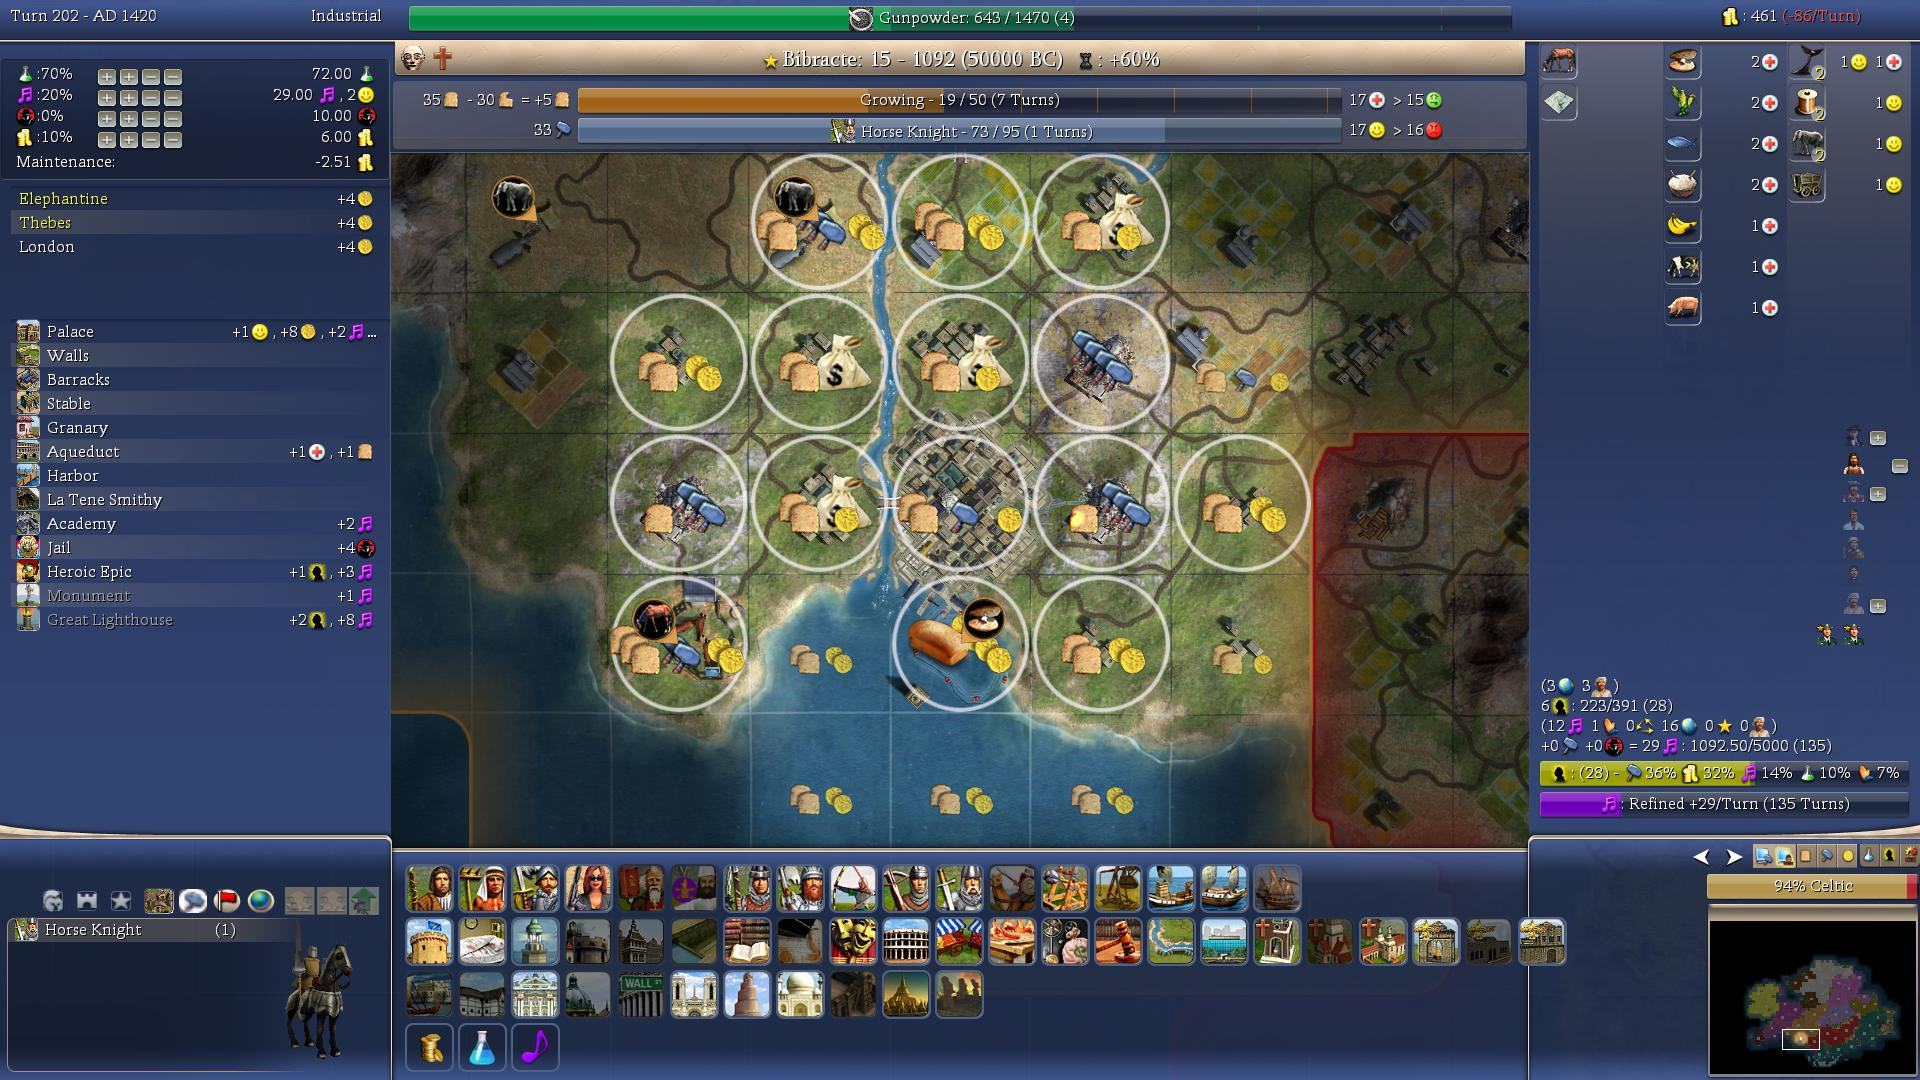
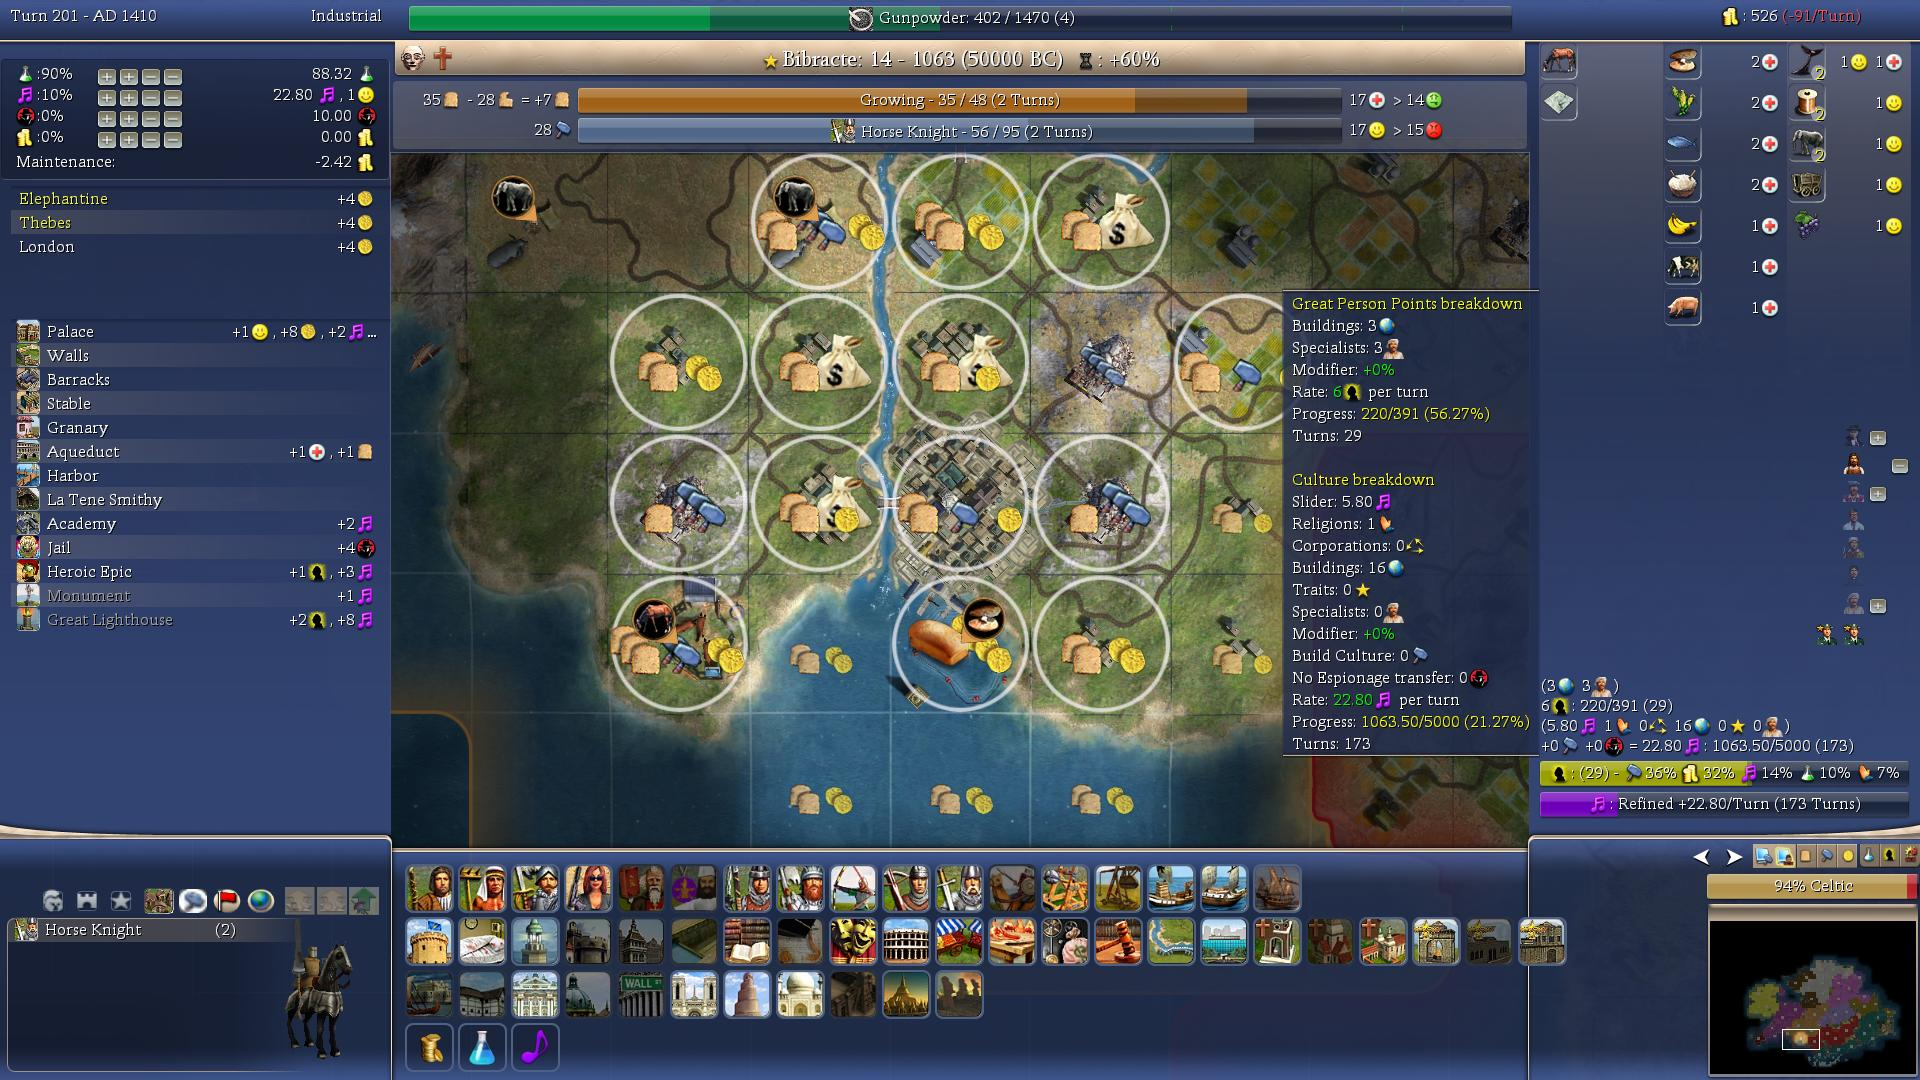
Add combined colored hover for Specialist and Culture Breakdowns
- give the compact Great Person and Culture breakdown rows one shared, font-scaled tooltip
- name every source with matching icon characters and color key modifier, rate and progress values
- show exact progress fractions with at-a-glance percentages and turn estimates

diff --git a/Assets/Python/Screens/CvMainInterface.py b/Assets/Python/Screens/CvMainInterface.py
@@ -55,7 +55,7 @@ import PLE # PLE Code
 import MinimapOptions # advc.002a
 import RawYields # BUG - Raw Yields
 import WidgetUtil
-# <!-- custom: custom widget types for scoreboard scroll/expand buttons; registered once at module load so hover text works. (Claude code Sonnet 4.6) -->
+# <!-- custom: Register custom widget types once at module load so scoreboard-control and City Breakdown hover text works. (Claude code Sonnet 4.6 + GPT-5.6-Sol) -->
 WIDGET_SCORE_SCROLL_UP = WidgetUtil.createWidget("WIDGET_SCORE_SCROLL_UP")
 WIDGET_SCORE_SCROLL_DOWN = WidgetUtil.createWidget("WIDGET_SCORE_SCROLL_DOWN")
 WIDGET_SCORE_SCROLL_UP_FAST = WidgetUtil.createWidget("WIDGET_SCORE_SCROLL_UP_FAST")
@@ -65,8 +65,12 @@ WIDGET_SCORE_EXPAND_TOGGLE = WidgetUtil.createWidget("WIDGET_SCORE_EXPAND_TOGGLE
 WIDGET_SCORE_SCROLL_CENTER_ACTIVE_PLAYER = WidgetUtil.createWidget("WIDGET_SCORE_SCROLL_CENTER_ACTIVE_PLAYER")
 WIDGET_SCORE_SCROLL_AUTOCENTER_ACTIVE_PLAYER_TOGGLE = WidgetUtil.createWidget("WIDGET_SCORE_SCROLL_AUTOCENTER_ACTIVE_PLAYER_TOGGLE")
 WIDGET_ANNOTATIONS_TOGGLE = WidgetUtil.createWidget("WIDGET_ANNOTATIONS_TOGGLE")
+WIDGET_CITY_BREAKDOWNS = WidgetUtil.createWidget("WIDGET_CITY_BREAKDOWNS")
+g_szCityBreakdownsHelp = u""
 def _scoreHelp(szText):
 	return lambda *_: sasFontTagHover + szText + SAS_FONT_TAG_CLOSE
+def _cityBreakdownsHelp(*_):
+	return g_szCityBreakdownsHelp
 WidgetUtil.setWidgetHelpFunction(WIDGET_SCORE_SCROLL_UP, _scoreHelp(u"Scroll scoreboard up"))
 WidgetUtil.setWidgetHelpFunction(WIDGET_SCORE_SCROLL_DOWN, _scoreHelp(u"Scroll scoreboard down"))
 WidgetUtil.setWidgetHelpFunction(WIDGET_SCORE_SCROLL_UP_FAST, _scoreHelp(u"Scroll scoreboard up (fast)"))
@@ -76,6 +80,7 @@ WidgetUtil.setWidgetHelpFunction(WIDGET_SCORE_EXPAND_TOGGLE, _scoreHelp(u"Toggle
 WidgetUtil.setWidgetHelpFunction(WIDGET_SCORE_SCROLL_CENTER_ACTIVE_PLAYER, _scoreHelp(u"Center scoreboard scroll on the active player"))
 WidgetUtil.setWidgetHelpFunction(WIDGET_SCORE_SCROLL_AUTOCENTER_ACTIVE_PLAYER_TOGGLE, _scoreHelp(u"Toggle autocenter scoreboard scroll on the active player"))
 WidgetUtil.setWidgetHelpFunction(WIDGET_ANNOTATIONS_TOGGLE, _scoreHelp(u"Toggle show map annotations"))
+WidgetUtil.setWidgetHelpFunction(WIDGET_CITY_BREAKDOWNS, _cityBreakdownsHelp)
 # <advc.090>
 import math
 def floor(f):
@@ -4493,6 +4498,7 @@ class CvMainInterface:
 		global g_iNumLeftBonus
 		global g_iNumCenterBonus
 		global g_iNumRightBonus
+		global g_szCityBreakdownsHelp
 
 		screen = self.screen
 		pHeadSelectedCity = CyInterface().getHeadSelectedCity()
@@ -5680,6 +5686,16 @@ class CvMainInterface:
 
 			# 4. Construct ROW 2 (Bottom Line): "10 [GP]: 109/249 (14)"
 			szRow2 = sasFontTagLabel + u"%d%s: %d/%d %s" % (iTotalRate, self.szGreatPeopleIcon, iProgress, iThreshold, szTurns) + SAS_FONT_TAG_CLOSE
+			# <!-- custom: The compact glyph-only breakdown is hard to interpret without already knowing its legend. Give both rendered rows the same live hover with matching glyphs, named sources, colored key results, modifier, rate, progress and turn estimate. (GPT-5.6-Sol) -->
+			szSpecHoverTitle = localText.changeTextColor(u"Great Person Points breakdown", self.colorYellow)
+			szSpecHoverModifier = localText.changeTextColor(u"%+d%%" % iModPercent, self.colorGreen)
+			szSpecHoverRate = localText.changeTextColor(u"%d%s" % (iTotalRate, self.szGreatPeopleIcon), self.colorGreen)
+			# <!-- custom: Keep the exact progress fraction and add an at-a-glance percentage rounded to the nearest hundredth; fixed one-decimal formatting would discard useful precision. (GPT-5.6-Sol) -->
+			iSpecProgressPercentTimes100 = (iProgress * 10000 + iThreshold / 2) / iThreshold
+			szSpecHoverProgress = localText.changeTextColor(u"%d/%d (%s%%)" % (iProgress, iThreshold, formatExactHundredths(iSpecProgressPercentTimes100)), self.colorYellow)
+			szSpecHoverSources = u"Buildings: %d%s\nSpecialists: %d%s" % (iBldgRaw, self.szMapIcon, iSpecRaw, self.szCitizenIcon)
+			szSpecHoverResult = u"Modifier: %s\nRate: %s per turn\nProgress: %s\nTurns: %s" % (szSpecHoverModifier, szSpecHoverRate, szSpecHoverProgress, szTurns.strip(u"()"))
+			szSpecialistBreakdownHelp = u"%s\n%s\n%s" % (szSpecHoverTitle, szSpecHoverSources, szSpecHoverResult)
 
 			# 5. Positioning & Rendering (Split into TWO Labels)
 			# screen.setLabel ignores \n, so we must draw two separate text widgets.
@@ -5690,10 +5706,10 @@ class CvMainInterface:
 			iY1 = gRect("GreatPeopleBar").y() - 82
 
 			# Draw Label 1 (Top)
-			screen.setLabel("SpecBreakdownLabel1", "Background", szRow1, CvUtil.FONT_LEFT_JUSTIFY, iX, iY1, -0.1, FontTypes.SMALL_FONT, WidgetTypes.WIDGET_GENERAL, -1, -1)
+			screen.setLabel("SpecBreakdownLabel1", "Background", szRow1, CvUtil.FONT_LEFT_JUSTIFY, iX, iY1, -0.1, FontTypes.SMALL_FONT, WIDGET_CITY_BREAKDOWNS, -1, -1)
 
 			# Draw Label 2 (Bottom)
-			screen.setLabel("SpecBreakdownLabel2", "Background", szRow2, CvUtil.FONT_LEFT_JUSTIFY, iX, iY2, -0.1, FontTypes.SMALL_FONT, WidgetTypes.WIDGET_GENERAL, -1, -1)
+			screen.setLabel("SpecBreakdownLabel2", "Background", szRow2, CvUtil.FONT_LEFT_JUSTIFY, iX, iY2, -0.1, FontTypes.SMALL_FONT, WIDGET_CITY_BREAKDOWNS, -1, -1)
 			# --- END: Specialist Breakdown Widget ---
 
 			# <!-- custom: Culture breakdown summary (per-source base culture and total/turns), placed in the right half below specialists to mirror the specialist breakdown while keeping all other panels unchanged. (GPT-5.2-Codex) -->
@@ -5768,12 +5784,24 @@ class CvMainInterface:
 				# Placing both post-modifier additions on this roomier lower row mirrors the native formula and keeps the legend stable: Build Culture is added afterward, while No Espionage transfers an already-calculated Espionage rate without applying the Culture modifier again. See KI#1063. (GPT-5.6-Sol) -->
 				szPostModifierSources = u"+%s%s +%s%s = " % (formatExactHundredths(iProcessCultureTimes100), self.szProductionIcon, formatExactHundredths(iEspionageTransferTimes100), self.szEspionageIcon)
 				szRow2 = sasFontTagLabel + u"%s%s%s: %s/%d %s" % (szPostModifierSources, szRate, self.szCultureIcon, szProgress, iCultureThreshold, szTurns) + SAS_FONT_TAG_CLOSE
+				# <!-- custom: Name every compact Culture glyph in a live hover, reuse those glyphs for direct visual matching, and preserve the native calculation order: base sources, Culture modifier, then Build Culture and No Espionage's transferred Espionage. See KI#1063. (GPT-5.6-Sol) -->
+				szCultureHoverTitle = localText.changeTextColor(u"Culture breakdown", self.colorYellow)
+				szCultureHoverModifier = localText.changeTextColor(u"%+d%%" % iModPercent, self.colorGreen)
+				szCultureHoverRate = localText.changeTextColor(u"%s%s" % (szRate, self.szCultureIcon), self.colorGreen)
+				iCultureProgressPercentTimes100 = (iCultureProgressTimes100 * 100 + iCultureThreshold / 2) / iCultureThreshold
+				szCultureHoverProgress = localText.changeTextColor(u"%s/%d (%s%%)" % (szProgress, iCultureThreshold, formatExactHundredths(iCultureProgressPercentTimes100)), self.colorYellow)
+				szCultureHoverSources = u"Slider: %s%s\nReligions: %d%s\nCorporations: %d%s\nBuildings: %d%s\nTraits: %d%s\nSpecialists: %d%s" % (formatExactHundredths(iSliderCultureTimes100), self.szCultureIcon, iRelCulture, self.szReligionIcon, iCorpCulture, self.szTradeIcon, iBldgCulture, self.szMapIcon, iTraitCulture, self.szStarIcon, iSpecCulture, self.szCitizenIcon)
+				szCultureHoverPostModifier = u"Build Culture: %s%s\nNo Espionage transfer: %s%s" % (formatExactHundredths(iProcessCultureTimes100), self.szProductionIcon, formatExactHundredths(iEspionageTransferTimes100), self.szEspionageIcon)
+				szCultureHoverResult = u"Modifier: %s\n%s\nRate: %s per turn\nProgress: %s\nTurns: %s" % (szCultureHoverModifier, szCultureHoverPostModifier, szCultureHoverRate, szCultureHoverProgress, szTurns.strip(u"()"))
+				szCultureBreakdownHelp = u"%s\n%s\n%s" % (szCultureHoverTitle, szCultureHoverSources, szCultureHoverResult)
+				# <!-- custom: Hovering either compact breakdown shows both related city-output summaries, avoiding mouse movement (aims to reduce user tedium) between adjacent rows while retaining separate readable sections. (GPT-5.6-Sol) -->
+				g_szCityBreakdownsHelp = sasFontTagHover + szSpecialistBreakdownHelp + u"\n\n" + szCultureBreakdownHelp + SAS_FONT_TAG_CLOSE
 
 				iXRight = iX
 				iY2 = gRect("GreatPeopleBar").y() - 22
 				iY1 = gRect("GreatPeopleBar").y() - 42
-				screen.setLabel("CultureBreakdownLabel1", "Background", szRow1, CvUtil.FONT_LEFT_JUSTIFY, iXRight, iY1, -0.1, FontTypes.SMALL_FONT, WidgetTypes.WIDGET_GENERAL, -1, -1)
-				screen.setLabel("CultureBreakdownLabel2", "Background", szRow2, CvUtil.FONT_LEFT_JUSTIFY, iXRight, iY2, -0.1, FontTypes.SMALL_FONT, WidgetTypes.WIDGET_GENERAL, -1, -1)
+				screen.setLabel("CultureBreakdownLabel1", "Background", szRow1, CvUtil.FONT_LEFT_JUSTIFY, iXRight, iY1, -0.1, FontTypes.SMALL_FONT, WIDGET_CITY_BREAKDOWNS, -1, -1)
+				screen.setLabel("CultureBreakdownLabel2", "Background", szRow2, CvUtil.FONT_LEFT_JUSTIFY, iXRight, iY2, -0.1, FontTypes.SMALL_FONT, WIDGET_CITY_BREAKDOWNS, -1, -1)
 
 		return 0
 

diff --git a/_1_AdvCiv-SAS/Docs/README_Main_Changes_Guide.md b/_1_AdvCiv-SAS/Docs/README_Main_Changes_Guide.md
@@ -747,7 +747,7 @@ Make some of the data-dense advisors use using a **higher constrast background t
 - Beautified the **Victory Screen**: **added Buttons/Icons** (Leaders, Religions, Apostolic Palace, UN, Spaceship parts, Traits as chars, etc.), **Thousands Separators** (note: now the same in all languages, e.g., `,` so others can be added/used if needed), **Victory Culture Percentages** (mirroring the changes in [CvInfoScreen.py](/Assets/Python/Screens/CvInfoScreen.py)). Add **grid size** information in Settings Tab (e.g., `Large World Size (74 x 52)`) and optionally show the cached **AI Map Heaviness** fields (`landHeavy` and `navalHeavy`) used by DLL behavior (with a **legend link**). Change in [CvVictoryScreen.py](/Assets/Python/Screens/CvVictoryScreen.py). See also [KI#115](/_1_AdvCiv-SAS/Docs/README_Known_Issues.md#ki-115).
 - Beautified the **Diplomacy Screen**'s **trading rows** with **icons** (e.g., Gold, Gold Per Turn, World Map, Open Borders, Vassal, Defensive Pact; and **leader icons** (make peace / declare war / embargo)). Change in `CvPlayer::getItemTradeString`. See [README.md: Diplomacy Screen](/README.md#diplomacy-screen).
 - **Main Interface (Common)**: Moved **minimap to the right-edge** for quicker read. Add **details** to most **progress bars**; e.g. in the Tech bar `Fusion: 2245 / 5774 (35)`. Show **chars in the GP bar even if 100%** (e.g. `Great Scientist: Lyons (3) - [RESEARCH_CHAR] 100%`) Change in [GPUtil.py](/Assets/Python/BUG/GPUtil.py) and [CvMainInterface.py](/Assets/Python/Screens/CvMainInterface.py). **Swap top left** (e.g., Treasury) **and top right** (e.g., Turn and Year) **text position**, and optionally **move commerce sliders to the right side** (allows to freely expand advisors so they use the entire left side, and is visually closer to scoreboard and most mouse controls) **in city screen or map view**. **Reduce commerce sliders fast increment** (`++ and --` optional buttons ("Min/Max Buttons in BUG Menu")) from **100 to 50** and make them **tunable**. When **Min/Max commerce buttons** are enabled in **map view**, move the green commerce rate values (e.g. `+297/Turn`) into a **compact row below the sliders** (e.g. `[RESEARCH_CHAR]297; [ESPIONAGE_CHAR]16`) so the slider block can be shifted right enough to keep both the **percentage text** and the **Min/Max buttons** visible near expanded advisors such as the Technology Advisor, while avoiding right-edge overflow in normal map view too. Show **Era text default ON** (as of now on top left); **strip " Era" suffix** so text is now only e.g., `Renaissance` not `Renaissance Era` (would overflow during golden age when text is upscaled, plus it is unneeded). See [Main interface rework](/README.md#main-interface-rework).
-- **Main Interface (City Screen) - Breakdowns**: Enhanced with a new **Great Person +n ICON** information in relevant Buildings' rows; added a new **Specialists Breakdown** and **Culture Breakdown**. (Requires AdvCiv-SAS 6207+) **Exact Great Person and culture modifiers in the Specialists and Culture Breakdowns:** they read the combined DLL modifiers directly instead of estimating them from already rounded final or base rates, so values such as +25% and +50% are no longer omitted or shown as misleading intermediate percentages. See [KI#308](/_1_AdvCiv-SAS/Docs/README_Known_Issues.md#ki-308) and [KI#308.2](/_1_AdvCiv-SAS/Docs/README_Known_Issues.md#ki-308.2). (Requires AdvCiv-SAS 6544+) The upper row includes exact Culture-slider commerce among the base sources affected by the displayed Culture modifier. The lower row separately and permanently shows Build Culture and No-Espionage's transferred Espionage as post-modifier additions (including zero values), followed by the exact final Culture rate and progress. Integral values omit redundant `.00`, while nonzero hundredths remain exact. See [KI#1063](/_1_AdvCiv-SAS/Docs/README_Known_Issues.md#ki-1063).
+- **Main Interface (City Screen) - Breakdowns**: Enhanced with a new **Great Person +n ICON** information in relevant Buildings' rows; added a new **Specialists Breakdown** and **Culture Breakdown**. (Requires AdvCiv-SAS 6546+) Hovering either compact breakdown shows one combined, font-upscaling-aware tooltip for both Great Person Points and Culture, avoiding mouse movement between the adjacent rows, which aims to reduce user tedium. It names every source with the same icon characters used by the compact formulas, colors key modifier/rate/progress values, adds at-a-glance progress percentages alongside the exact fractions, and includes the post-modifier Culture additions and turn estimates. (Requires AdvCiv-SAS 6207+) **Exact Great Person and culture modifiers in the Specialists and Culture Breakdowns:** they read the combined DLL modifiers directly instead of estimating them from already rounded final or base rates, so values such as +25% and +50% are no longer omitted or shown as misleading intermediate percentages. See [KI#308](/_1_AdvCiv-SAS/Docs/README_Known_Issues.md#ki-308) and [KI#308.2](/_1_AdvCiv-SAS/Docs/README_Known_Issues.md#ki-308.2). (Requires AdvCiv-SAS 6544+) The upper row includes exact Culture-slider commerce among the base sources affected by the displayed Culture modifier. The lower row separately and permanently shows Build Culture and No-Espionage's transferred Espionage as post-modifier additions (including zero values), followed by the exact final Culture rate and progress. Integral values omit redundant `.00`, while nonzero hundredths remain exact. See [KI#1063](/_1_AdvCiv-SAS/Docs/README_Known_Issues.md#ki-1063).
 - **Main Interface (City Screen) - Bottom**: added **optional extra rows** in the **Production Chooser Bar** (with optional separate blue ribbon, bar Y position and bar height position fine-tuning tunables (e.g., helps remove needless scroll bar when there are not more than max rows, or keep display symmetric or prettier)) and **optionally hide the unit bar** (`"PlotListPanel"`) (note: does not affect the production chooser outside of the city screen)
 - **Main Interface (City Screen)**: added **Buttons** (i.e. icons) in the **Production Queue**; fixed some hard anchored items that now **dynamically** adjust to sides' width. **Beautified** it as well: removed the 3 gray bars ("Trade Routes", "Buildings", "Specialists"), increased sides' width, made bonuses columns even in width, and other changes. These changes allow to now display more information and reduce the need for scrolling or hovering. Also **enlarged** the **Bottom-Left** and **Bottom-Right** panels so they align dynamically with the enlarged **Side Panels**. Enhanced the **city bar** and **other bars**, e.g., `Lakamha: 16 - 12372 (4500BC)` or `Growing - 30/43 (4 Turns)`. Adjust **city camera** to the north (tunable) so extra rows can be shown without overflowing into bottom BFC plots in `CvGame::onCityScreenChange`. And other changes. See also [KI#101](/_1_AdvCiv-SAS/Docs/README_Known_Issues.md#ki-101).
 - **Main Interface (City Screen - Widgets/Clickable Buttons)**: Add **redirect to Sevopedia on click** (preserving `WIDGET_HELP` hover) for **Religion** and **Corporation** icons. Add a tunable **city bonus panel render mode**: **mode 0** keeps the old AdvCiv-SAS text glyphs (Civ4's `screen.setLabelAt`: smaller; also used as overflow fallback), **mode 1** uses base AdvCiv-style framed image buttons (Civ4's `setImageButton`) but now with **larger icons** when there is room, and **mode 2** uses frameless DDS rendering (Civ4's `addDDS`) with the same larger-size logic for a cleaner look. Active non-obsolete **Bonus** icons can open Sevopedia too (mode 0 text glyphs did not redirect to Sevopedia in testing; mode 1: left/right click; mode 2: right click only in our Python-only attempts so far). Split the **Draft group** into hurry controls on the right (and a **new draft button**) and config options on the right. Add building list filtering buttons ("Show All Buildings", "Show Regular Buildings Only", "Show National Wonders Only", "Show World Wonders Only") and restored **Production Chooser Bar** row-jump buttons with clearer hover text ("Scroll to Units/Buildings/Wonders"). Reduce **food/production top bars' size** so text does not overflow when upscaled (also helps preserve overall distance to side panels due to increasing base font size from body to label). Add **commerce sliders fast increment buttons** (`++ and --` optional buttons ("Min/Max Buttons in BUG Menu")) in city screen (matching the ones in map view) (not added in Finance Tab or Espionage Tab because these still have access to commerce sliders as of now at their right in map view). Change in [CvMainInterface.py](/Assets/Python/Screens/CvMainInterface.py).
